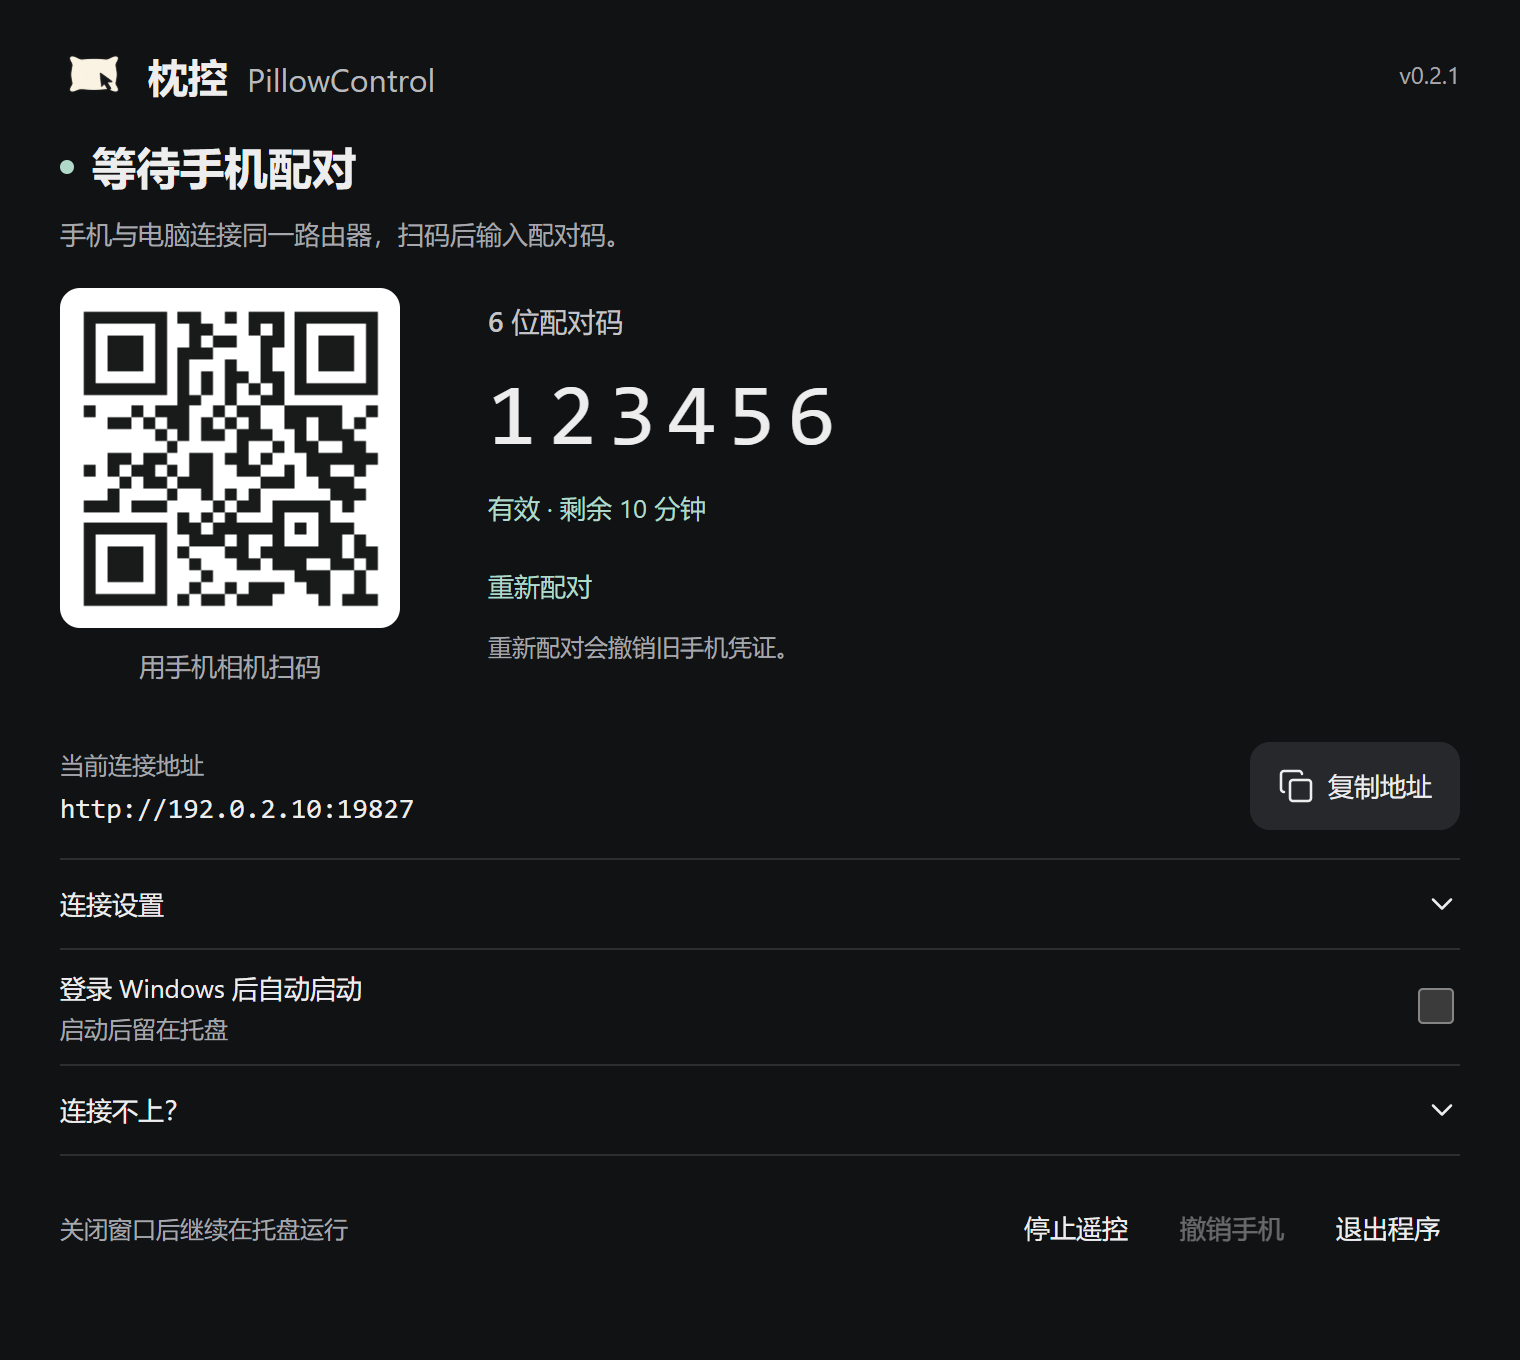
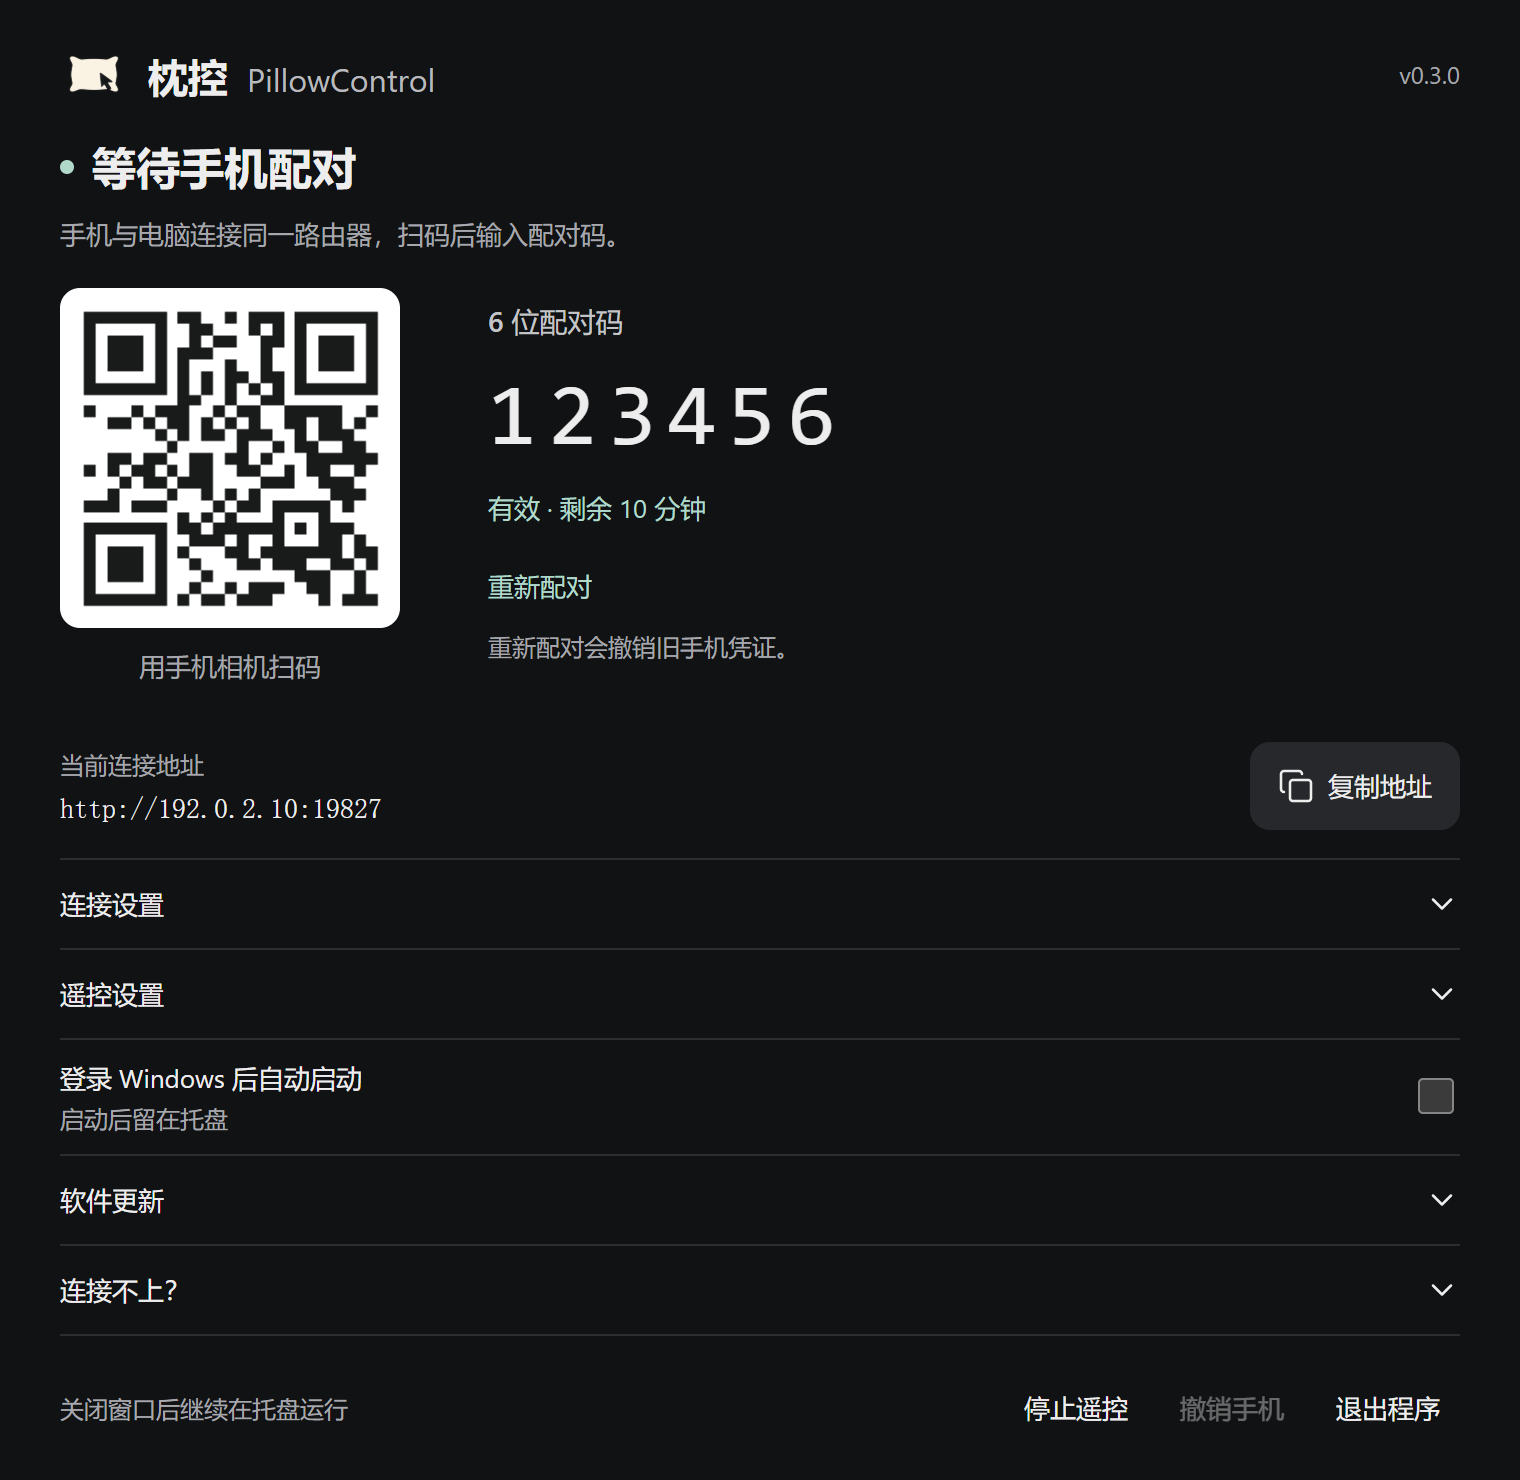
docs: refresh README and screenshots for v0.3.0

diff --git a/README.md b/README.md
@@ -28,13 +28,13 @@
   <img src="docs/assets/desktop-pairing.png" width="680" alt="电脑等待配对界面，显示二维码、演示配对码和折叠连接设置">
 </p>
 
-> 截图展示 v0.2.1 界面。图片由实际页面渲染，连接状态使用预览数据；地址 `192.0.2.10`、配对码 `123456` 仅用于展示，不能用于连接。手机截图为浏览器视口，不代表手机真机验收。
+> 截图展示 v0.3.0 界面。图片由实际页面渲染，连接状态使用预览数据；地址 `192.0.2.10`、配对码 `123456` 仅用于展示，不能用于连接。手机截图为浏览器视口，不代表手机真机验收。
 
 <details>
 <summary>查看配对与更多操作面板</summary>
 <p>
   <img src="docs/assets/mobile-pairing.png" width="260" alt="手机配对面板，单一六位数字输入框">
-  <img src="docs/assets/mobile-more.png" width="260" alt="更多面板：显示桌面、Esc、回车及上下滚动">
+  <img src="docs/assets/mobile-more.png" width="260" alt="更多面板：Esc、显示桌面、Backspace、上下滚动及回车">
 </p>
 </details>
 
@@ -47,21 +47,33 @@
 - **连续切换窗口**：保持 Alt 逐个选择，确认后释放，也可一键显示桌面。
 - **配对一次，之后重连**：保留同一浏览器和网址，电脑程序重启后也能自动连接；支持登录后静默启动。
 
+### v0.3.0 新增
+
+- **远处也能找到鼠标**：默认开启定位光环，跟随系统光标，停止遥控移动约一秒后淡出；电脑端可调整大小，手机设置可开启局部放大镜。
+- **更完整的低频操作**：更多面板提供 Esc、显示桌面、删除（Backspace）、上下滚动和回车；修复双指滚动，保留单手备用滚动按钮。
+- **按需更新与关机**：电脑端可检查新版本；手机设置中可确认正常关机，不强制结束未保存的应用。
+
 <a id="download"></a>
 ## 下载
 
-**[前往 GitHub Releases 下载](https://github.com/RedWait/pillow-control/releases/latest)** · [v0.2.1 发布说明](https://github.com/RedWait/pillow-control/releases/latest)
+**[前往 GitHub Releases 下载](https://github.com/RedWait/pillow-control/releases/latest)** · [v0.3.0 发布说明](https://github.com/RedWait/pillow-control/releases/tag/v0.3.0)
 
 | 选择 | 适合谁 | WebView2 |
 | --- | --- | --- |
-| **[安装版 EXE（推荐）](https://github.com/RedWait/pillow-control/releases/download/v0.2.1/pillow-control-0.2.1-setup-x64.exe)** | 日常使用，按当前 Windows 用户安装 | 已包含离线安装程序，体积较大 |
-| [便携版 ZIP](https://github.com/RedWait/pillow-control/releases/download/v0.2.1/pillow-control-0.2.1-portable-x64.zip) | 解压即用，愿意自行管理程序目录 | 需要系统已有 WebView2 Runtime |
+| **[安装版 EXE（推荐）](https://github.com/RedWait/pillow-control/releases/download/v0.3.0/pillow-control-0.3.0-setup-x64.exe)** | 日常使用，按当前 Windows 用户安装 | 已包含离线安装程序，体积较大 |
+| [便携版 ZIP](https://github.com/RedWait/pillow-control/releases/download/v0.3.0/pillow-control-0.3.0-portable-x64.zip) | 解压即用，愿意自行管理程序目录 | 需要系统已有 WebView2 Runtime |
 
-可用 [SHA-256 校验文件](https://github.com/RedWait/pillow-control/releases/download/v0.2.1/pillow-control-0.2.1-SHA256SUMS.txt)核对下载。没有单独的“离线版”：安装版已内置 WebView2 离线安装程序。便携版的偏好仍保存于当前用户的应用数据目录；开启自启后请保持程序路径不变。
+可用 [SHA-256 校验文件](https://github.com/RedWait/pillow-control/releases/download/v0.3.0/pillow-control-0.3.0-SHA256SUMS.txt)核对下载。没有单独的“离线版”：安装版已内置 WebView2 离线安装程序。便携版的偏好仍保存于当前用户的应用数据目录；开启自启后请保持程序路径不变。
 
-面向 **Windows 10/11 x64**，目前实测 Windows 11；Windows 10、全新系统和缺失 WebView2 的安装分支仍待验收。发行包未签名，Windows 可能显示未知发布者。普通用户不需要 Node.js、Python、Rust 或编译工具。
+面向 **Windows 10/11 x64**，目前实测 Windows 11；Windows 10、全新系统和缺失 WebView2 的安装分支仍待验收。更新包已使用更新签名校验，但未做 Windows 代码签名，Windows 仍可能显示未知发布者或 SmartScreen 提示。普通用户不需要 Node.js、Python、Rust 或编译工具。
 
-下载软件需要互联网；安装版无需在线下载 WebView2。便携版缺少该运行时时需另行安装，可能需要联网。日常遥控只需局域网。
+下载软件需要互联网；安装版无需在线下载 WebView2。便携版缺少该运行时时需另行安装，可能需要联网。日常遥控只需局域网；检查和下载更新需要连接 GitHub，网络不可用不影响遥控。
+
+### 从旧版本升级
+
+**v0.2.1 及更早版本需要手动下载安装 v0.3.0**，无需先删除配对数据。v0.3.0 起，电脑端「软件更新」支持手动检查及默认开启、可关闭的启动检查；后续有稳定版时，安装版可下载签名更新包，由你确认后安装，期间会暂时中断遥控。便携版通过发布页面手动下载。
+
+正式版本之间的实际升级安装与升级后设置保留仍待验收，详见[更新说明与发布流程](docs/UPDATES.md)。
 
 <a id="quick-start"></a>
 ## 快速开始
@@ -112,11 +124,11 @@ npm run pack    # 生成安装版、便携 ZIP 和校验文件
 - [开发、架构、完整测试与打包命令](docs/DEVELOPMENT.md)
 - [Windows 验证记录](docs/VALIDATION.md) · [真机验收清单](docs/ACCEPTANCE.md)
 - [当前 UI 精修与验证范围](docs/UI_POLISH.md) · [手机界面验证](docs/MOBILE_UI.md)
-- [鼠标定位光环：使用与验证（本地开发版，未发布）](docs/POINTER_HALO.md)
-- [本地开发版：Backspace、滚动修复、鼠标放大镜与关机](docs/REMOTE_ENHANCEMENTS.md)（尚未发布）
+- [鼠标定位光环：使用与验证](docs/POINTER_HALO.md)
+- [Backspace、滚动修复、鼠标放大镜与关机](docs/REMOTE_ENHANCEMENTS.md)
 - [迁移与可恢复基线](docs/MIGRATION.md)
 
-浏览器模拟、自动化测试和构建成功都不等于实体手机、真实 Wi-Fi 或全新 Windows 的验收通过。
+上述功能记录保留开发阶段的验证过程；发布状态以 [v0.3.0 发布说明](docs/RELEASE-0.3.0.md)为准。浏览器模拟、自动化测试和构建成功都不等于实体手机、真实 Wi-Fi 或全新 Windows 的验收通过；实际关机、不同屏幕缩放及播放器覆盖效果仍需真机核对。
 
 ## 参与与许可证
 
@@ -127,10 +139,6 @@ npm run pack    # 生成安装版、便携 ZIP 和校验文件
 项目采用 [MIT 许可证](LICENSE)。依赖和分发素材的许可证见 [THIRD_PARTY_NOTICES.md](THIRD_PARTY_NOTICES.md)。
 
 如果枕控帮你少下了一次床，欢迎点个 ⭐，也欢迎分享给同样懒得起身的朋友。
-
-### 软件更新
-
-电脑端「软件更新」支持手动检查与可关闭的启动检查。安装版仅在签名验证通过、用户确认后安装；便携版打开发布页面手动下载。首个带更新功能的版本仍需手动安装。[配置、发布流程与验收边界](docs/UPDATES.md)。
 
 ## 友情链接
 
